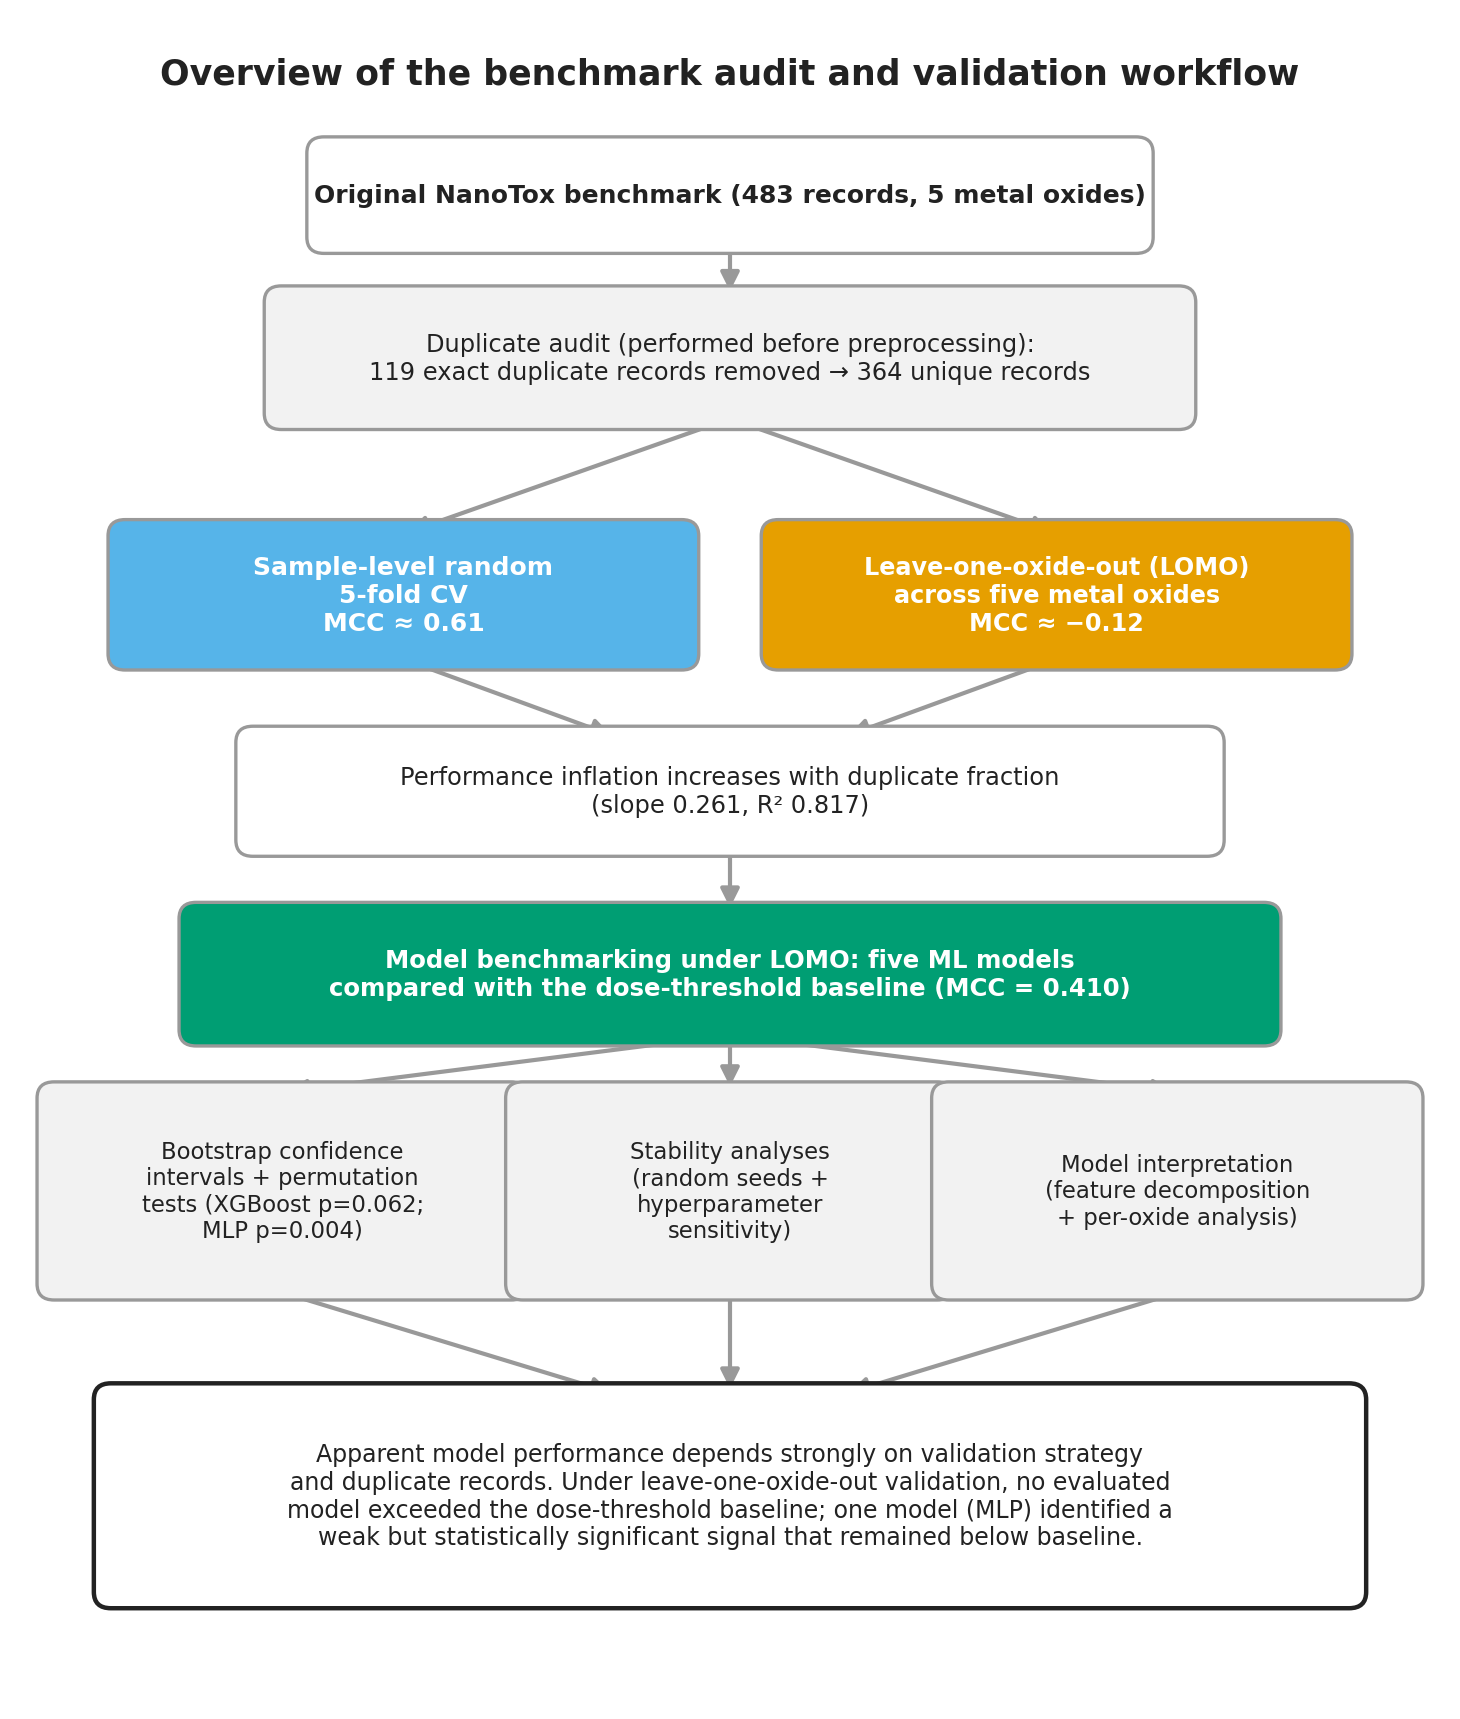
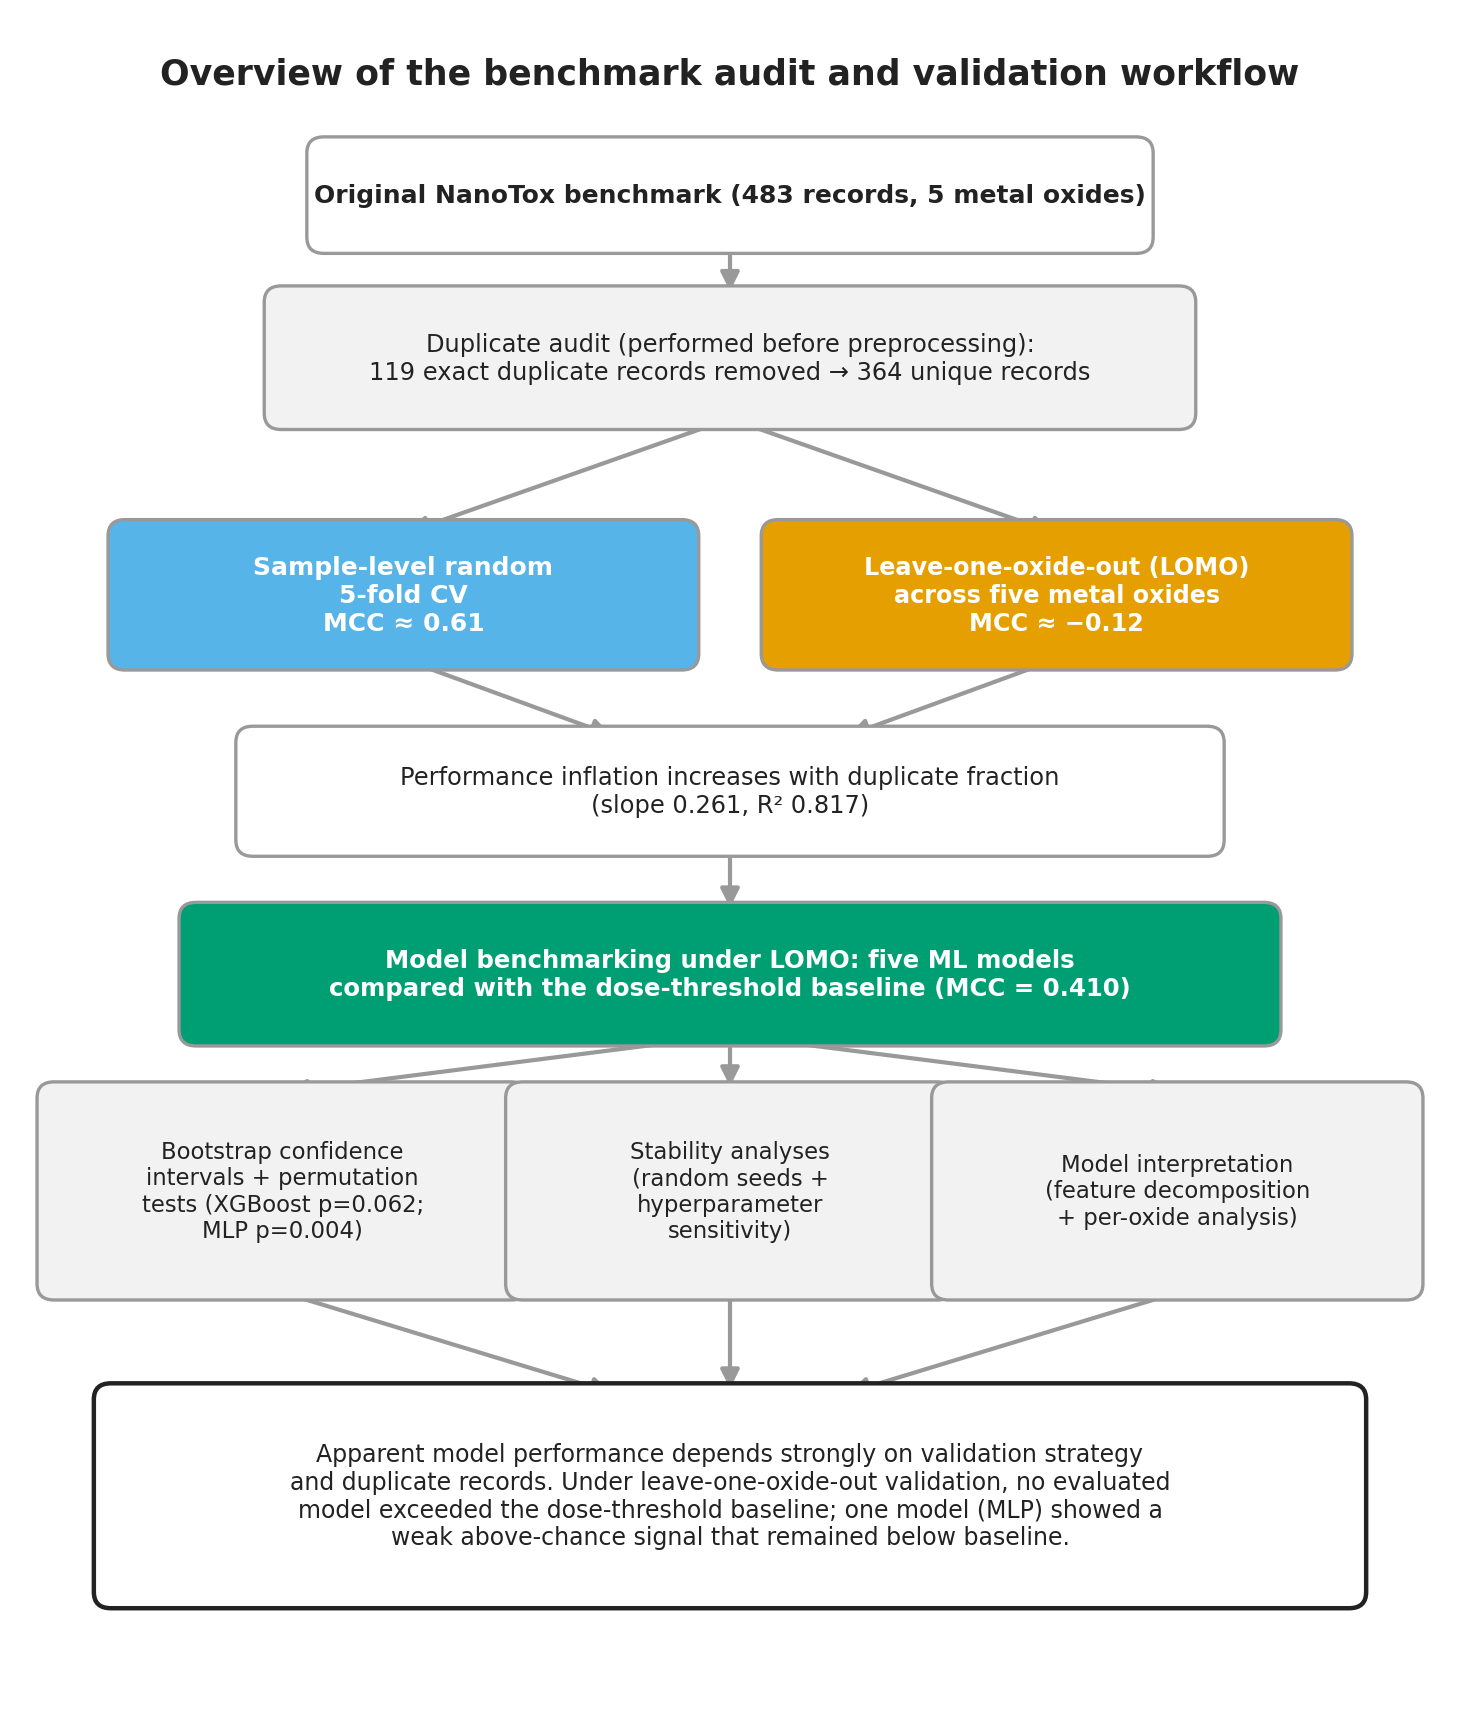
Correct significance wording in Scheme 1; document all nine analyses
- Change Scheme 1's summary box from "statistically significant" to
  "weak above-chance signal", matching the manuscript's softened
  framing; regenerate Figure_workflow.png
- Document the four previously unlisted supporting scripts in
  REVISION_ANALYSES.md, noting that the McNemar output of
  dose_vs_mlp_comparison.py is exploratory and not reported
- Reconcile REVISION_ANALYSES.md intro and summary to cover all
  nine analyses

Changed region(s): [[0.1849, 0.8633, 0.8014, 0.925]]

diff --git a/scripts/make_workflow_figure.py b/scripts/make_workflow_figure.py
@@ -34,7 +34,7 @@ def main():
     box(ax,5.0,y6,3.0,1.45,"Stability analyses\n(random seeds +\nhyperparameter\nsensitivity)",fc=LIGHT,fs=8.2)
     box(ax,8.15,y6,3.3,1.45,"Model interpretation\n(feature decomposition\n+ per-oxide analysis)",fc=LIGHT,fs=8.2)
     arrow(ax,5,4.9,1.85,4.48); arrow(ax,5,4.9,5.0,4.48); arrow(ax,5,4.9,8.15,4.48)
-    box(ax,5,1.5,8.8,1.5,"Apparent model performance depends strongly on validation strategy\nand duplicate records. Under leave-one-oxide-out validation, no evaluated\nmodel exceeded the dose-threshold baseline; one model (MLP) identified a\nweak but statistically significant signal that remained below baseline.",fc="white",ec=DARK,bold=False,fs=8.5,lw=1.6)
+    box(ax,5,1.5,8.8,1.5,"Apparent model performance depends strongly on validation strategy\nand duplicate records. Under leave-one-oxide-out validation, no evaluated\nmodel exceeded the dose-threshold baseline; one model (MLP) showed a\nweak above-chance signal that remained below baseline.",fc="white",ec=DARK,bold=False,fs=8.5,lw=1.6)
     arrow(ax,1.85,3.0,4.2,2.25); arrow(ax,5.0,3.0,5.0,2.25); arrow(ax,8.15,3.0,5.8,2.25)
     plt.tight_layout(); FIGURES_DIR.mkdir(parents=True,exist_ok=True)
     out=FIGURES_DIR/"Figure_workflow.png"; plt.savefig(out,dpi=200,bbox_inches="tight",facecolor="white"); plt.close(fig)

diff --git a/REVISION_ANALYSES.md b/REVISION_ANALYSES.md
@@ -1,9 +1,11 @@
 # Revision analyses (reviewer-requested)
 
-Two additional analyses were added during revision. Both read the same dataset
-(`data/NanoTox_dataset_clean.xlsx`) and write to `results/`. Run them from the
-repository root with the virtual environment active, exactly like the main
-pipeline.
+This file documents nine analyses and supporting scripts used during revision.
+Most read the same dataset (`data/NanoTox_dataset_clean.xlsx`) and write to
+`results/`; the two figure generators (sections 8–9) take no data input. Run any of
+them from the repository root with the virtual environment active. Sections 1–5 are
+also invoked by `run_all.py` as part of the main pipeline; sections 6–9 are run
+individually.
 
 ## 1. MLP permutation test  (reviewer comments 3 & 7)
 
@@ -38,10 +40,9 @@ Full run uses 1,000 bootstrap resamples per setting and takes a few minutes.
 
 ## What to send back
 
-After running both, send the two CSVs (and the MLP figure) so the manuscript
-numbers can be set to your machine's output:
-- `results/permutation_results_mlp.csv`
-- `results/hyperparameter_sensitivity.csv`
+After running the revision analyses in this file, send the generated files in
+`results/` (CSVs) and `results/figures/` (PNGs) so the manuscript numbers and
+figures can be set to your machine's output.
 
 ## 3. MLP per-oxide breakdown  (revision; verifies the interpretation)
 
@@ -96,3 +97,77 @@ three oxides give defined test folds and combination counts are tiny (n=3 at the
 top level), so SDs are large and intervals span zero. The mean trends gently
 upward with diversity, but the benchmark cannot establish the effect. Report as a
 motivation for larger/more diverse benchmarks, not as evidence.
+
+---
+
+The remaining scripts are standalone supporting analyses and figure generators.
+They are run individually and are **not** invoked by `run_all.py`; none produces a
+number cited in the manuscript.
+
+## 6. Dose-baseline vs MLP comparison  (exploratory)
+
+Compares the dose-threshold baseline and the multilayer perceptron under the same
+leave-one-oxide-out scheme. Reports each model's pooled LOMO MCC with a percentile
+bootstrap 95% CI (dose 0.4103, MLP 0.166 — the point estimates reported in the
+manuscript), a check of whether the two intervals overlap, and a McNemar paired
+test on the two models' correctness over the identical held-out instances.
+
+```
+python scripts/dose_vs_mlp_comparison.py
+```
+
+Output:
+- `results/dose_vs_mlp_comparison.csv`  (dose_mcc, dose_ci, mlp_mcc, mlp_ci, ci_overlap, mcnemar_b, mcnemar_c, mcnemar_p)
+
+The McNemar result (p = 0.0007) is **exploratory and is not reported in the
+manuscript.** McNemar tests whether the two models' per-instance accuracy differs,
+not whether their MCC differs; under this benchmark's class imbalance (68 cytotoxic
+of 364) accuracy and MCC diverge, so a significant McNemar result does not establish
+that the dose baseline's MCC advantage is statistically significant. It was
+considered and deliberately excluded on that basis — the dose-vs-MLP comparison in
+the paper rests on the point estimates and their confidence intervals, not on this
+test.
+
+## 7. MLP confidence interval with CuO removed  (Reviewer 1, point 4)
+
+Recomputes the MLP's pooled LOMO MCC with the copper-oxide fold removed and adds a
+percentile bootstrap 95% CI, using the same bootstrap as `bootstrap_ci.py` (1,000
+resamples) restricted to the non-CuO folds. The point estimate (0.166 with all
+oxides, 0.088 with CuO removed) is in the main text; this reports whether the
+CuO-excluded interval spans zero — i.e. whether the residual, non-CuO signal is
+distinguishable from chance.
+
+```
+python scripts/mlp_no_cuo_ci.py
+```
+
+Output:
+- `results/mlp_no_cuo_ci.csv`  (set = all_oxides / CuO_removed; MCC, CI_low, CI_high)
+
+## 8. Graphical abstract  (figure generator; no data input)
+
+Draws the graphical abstract as a standalone summary figure: a three-bar MCC panel
+(random five-fold ≈ 0.61, LOMO ≈ −0.12, dose baseline ≈ 0.41) alongside the key
+findings. It takes no data input and computes nothing — the values shown are the
+headline results, hardcoded for display.
+
+```
+python scripts/make_graphical_abstract.py
+```
+
+Output:
+- `results/figures/Graphical_abstract.png`
+
+## 9. Workflow diagram  (figure generator; no data input)
+
+Draws Scheme 1, the unnumbered workflow overview of the benchmark audit and
+validation pipeline. Like the graphical abstract it takes no data input; the boxes
+summarize the pipeline and its headline numbers for display, sourced from the
+analyses above rather than recomputed.
+
+```
+python scripts/make_workflow_figure.py
+```
+
+Output:
+- `results/figures/Figure_workflow.png`
